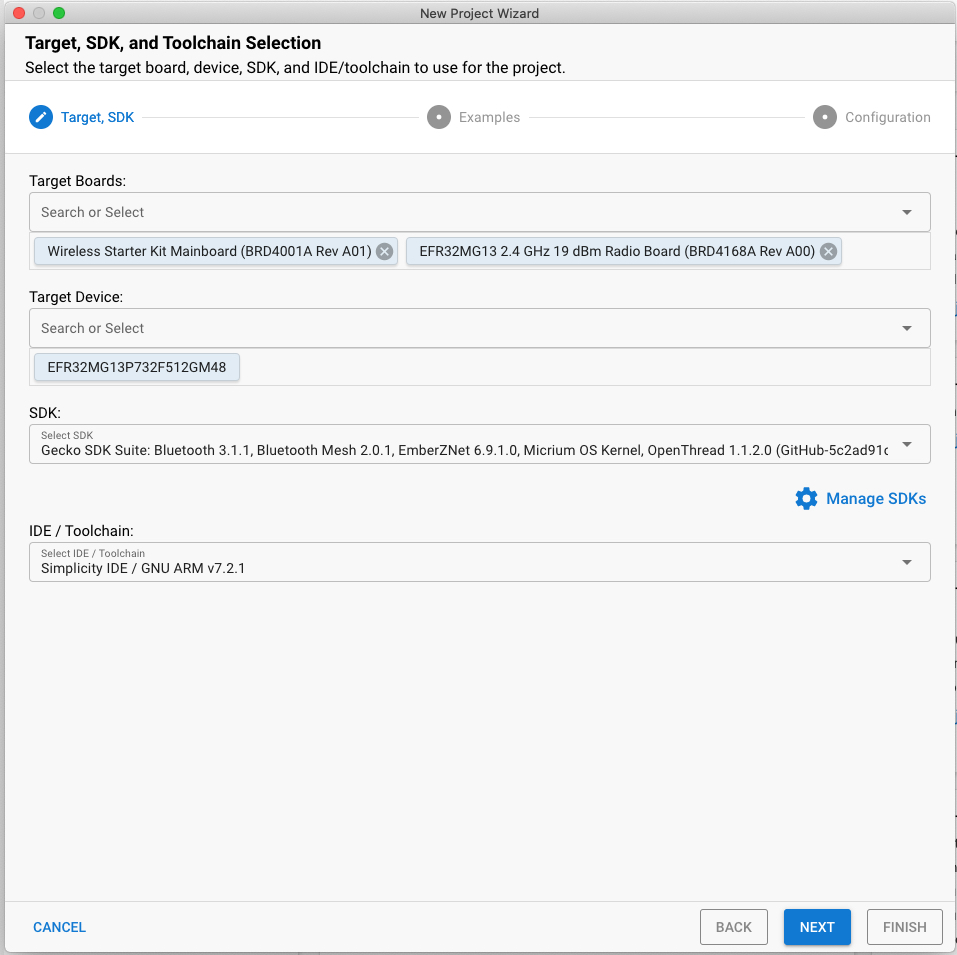
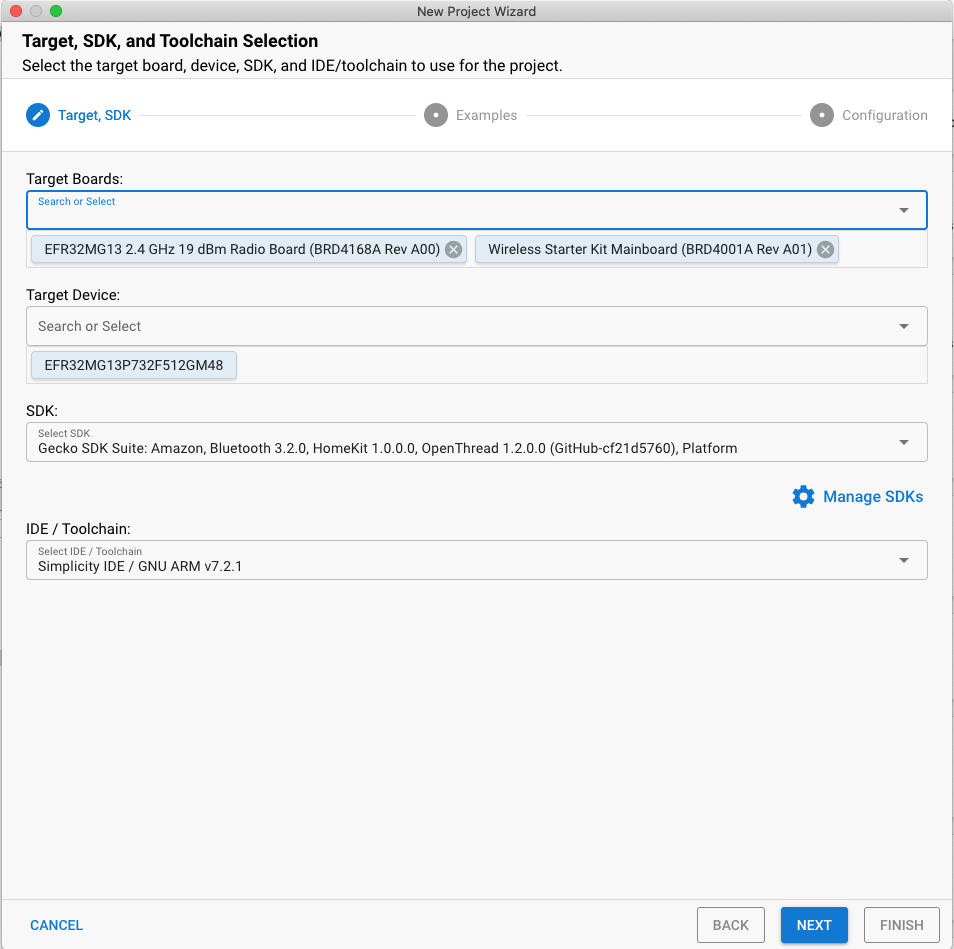
[codelabs] Thread 1.2 and GSDK 3.2.0 changes (#31)

diff --git a/site/en/codelabs/silabs-openthread-hardware/index.lab.md b/site/en/codelabs/silabs-openthread-hardware/index.lab.md
@@ -77,7 +77,7 @@ Software:
 * Simplicity Studio v5 installed and updated on the Windows/Linux/Mac Host system with
 
   * GNU ARM v7.2.1 toolchain 
-  * Gecko SDK Suite 3.1.0 or later and Silicon Labs OpenThread SDK.
+  * Gecko SDK Suite 3.2.0 or later and Silicon Labs OpenThread SDK.
   
 
 <button>[Download Simplicity Studio 5](https://www.silabs.com/developers/simplicity-studio)</button>
@@ -97,7 +97,7 @@ This Codelab was created using
 1. EFR32MG12 [BRD4166A Thunderboard Sense 2](https://www.silabs.com/development-tools/thunderboard/thunderboard-sense-two-kit) as shown on the left.
 2. Two EFR32MG13 [BRD4168A](https://www.silabs.com/documents/public/user-guides/ug280-brd4168a-user-guide.pdf) as shown on the right. 
 3. Simplicity Studio v5 installed on a macOS Catalina 10.15.7 with
-   1. Gecko SDK 3.1.2 
+   1. Gecko SDK 3.2.0 
    2. GNU ARM v7.2.1
 
  ![](img/BRD4166A.jpeg)![BRD4168A](./img/BRD4168A.jpeg)
@@ -134,7 +134,7 @@ We will create two projects. The `ot-rcp` project for BRD4166A and the `ot-cli-f
 
    * Target Device: This field shows the microcontroller chip (MCU) onboard. The BRD4168A has an EFR32MG13 MCU onboard.
 
-   * SDK: Here you can select the SDK version of OT that you are working with. For this codelab we use OpenThread 1.1.2.0.
+   * SDK: Here you can select the SDK version of OT that you are working with. For this codelab we use OpenThread 1.2.0.0.
 
    * IDE/ Toolchain: The toolchain that will be used for compiling the OT project. We use GNU ARM 7.2.1.
 
@@ -242,10 +242,10 @@ https://hub.docker.com/r/siliconlabsinc/openthread-backbone-border-router/tags
    sudo usermod -aG docker $USER
    ```
 
-3. Issue the following commands to install the containers. Note that you can have only one Border Router container running at one time with your RCP. Also, be sure to verify the RCP version (Thread version 1.1) that should be run against this container.
+3. Issue the following commands to install the containers. Note that you can have only one Border Router container running at one time with your RCP. Also, be sure to verify the RCP version (Thread version 1.2) that should be run against this container.
 
    ```console
-   docker pull siliconlabsinc/openthread-border-router:gsdk-3.1.0
+   docker pull siliconlabsinc/openthread-border-router:gsdk-3.2.0
    ```
 
 ### Configure and run docker
@@ -259,8 +259,9 @@ https://hub.docker.com/r/siliconlabsinc/openthread-backbone-border-router/tags
     --sysctl "net.ipv6.conf.all.disable_ipv6=0 net.ipv4.conf.all.forwarding=1 net.ipv6.conf.all.forwarding=1" \
     -p 8080:80 --dns=127.0.0.1 -it \
     --volume /dev/ttyACM0:/dev/ttyACM0 \
-    --privileged siliconlabsinc/openthread-border-router:gsdk-3.1.0 \
-    --radio-url spinel+hdlc+uart:///dev/ttyACM0?uart-baudrate=460800
+    --privileged siliconlabsinc/openthread-border-router:gsdk-3.2.0 \
+    --radio-url spinel+hdlc+uart:///dev/ttyACM0?uart-baudrate=460800 \
+    --backbone-interface eth0
    ```
 
    - `-d` ensures that the container runs in detached mode.
